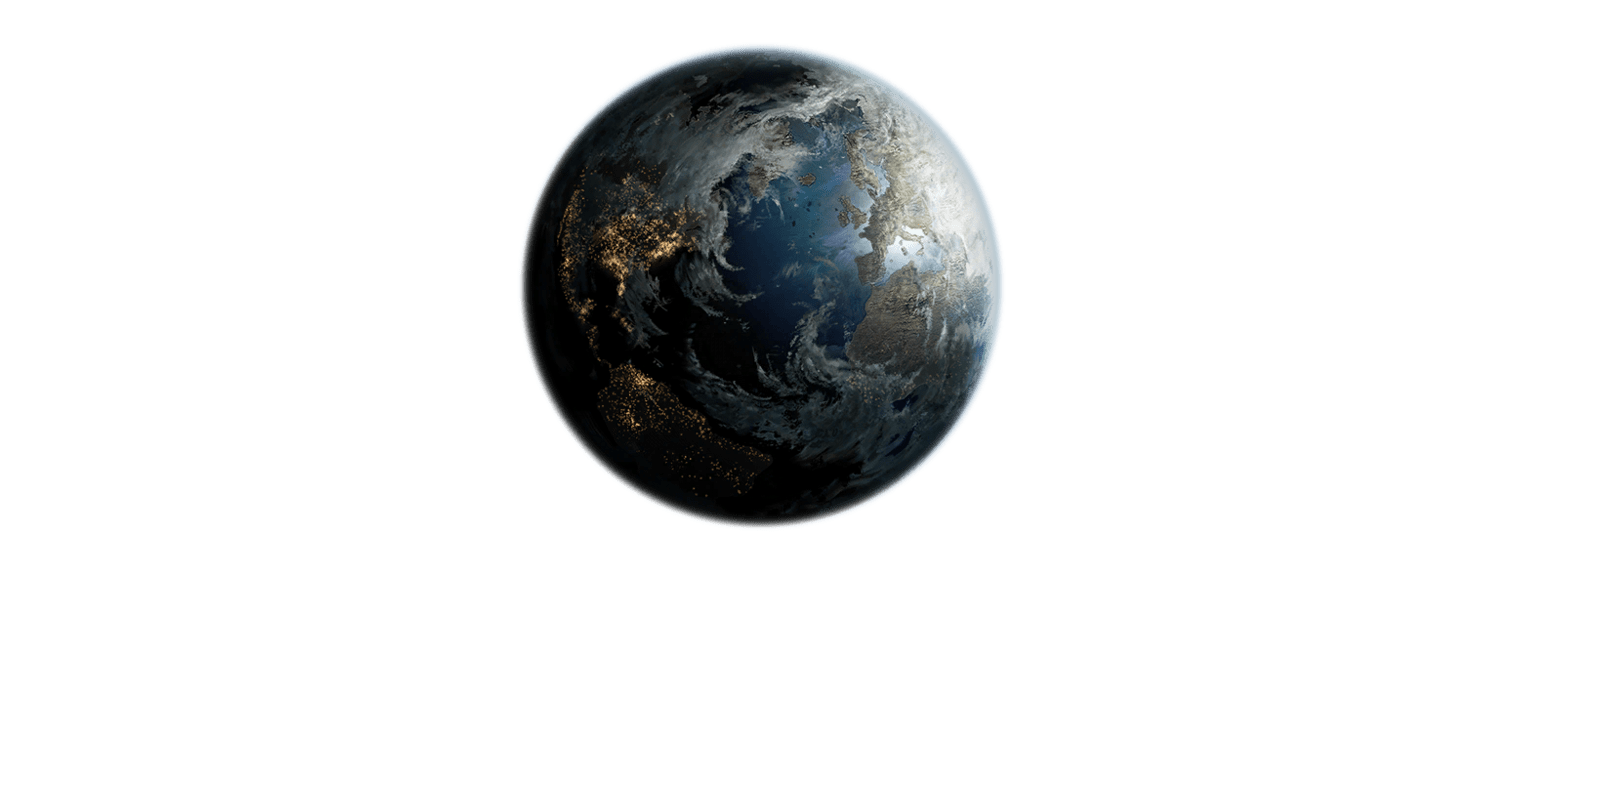
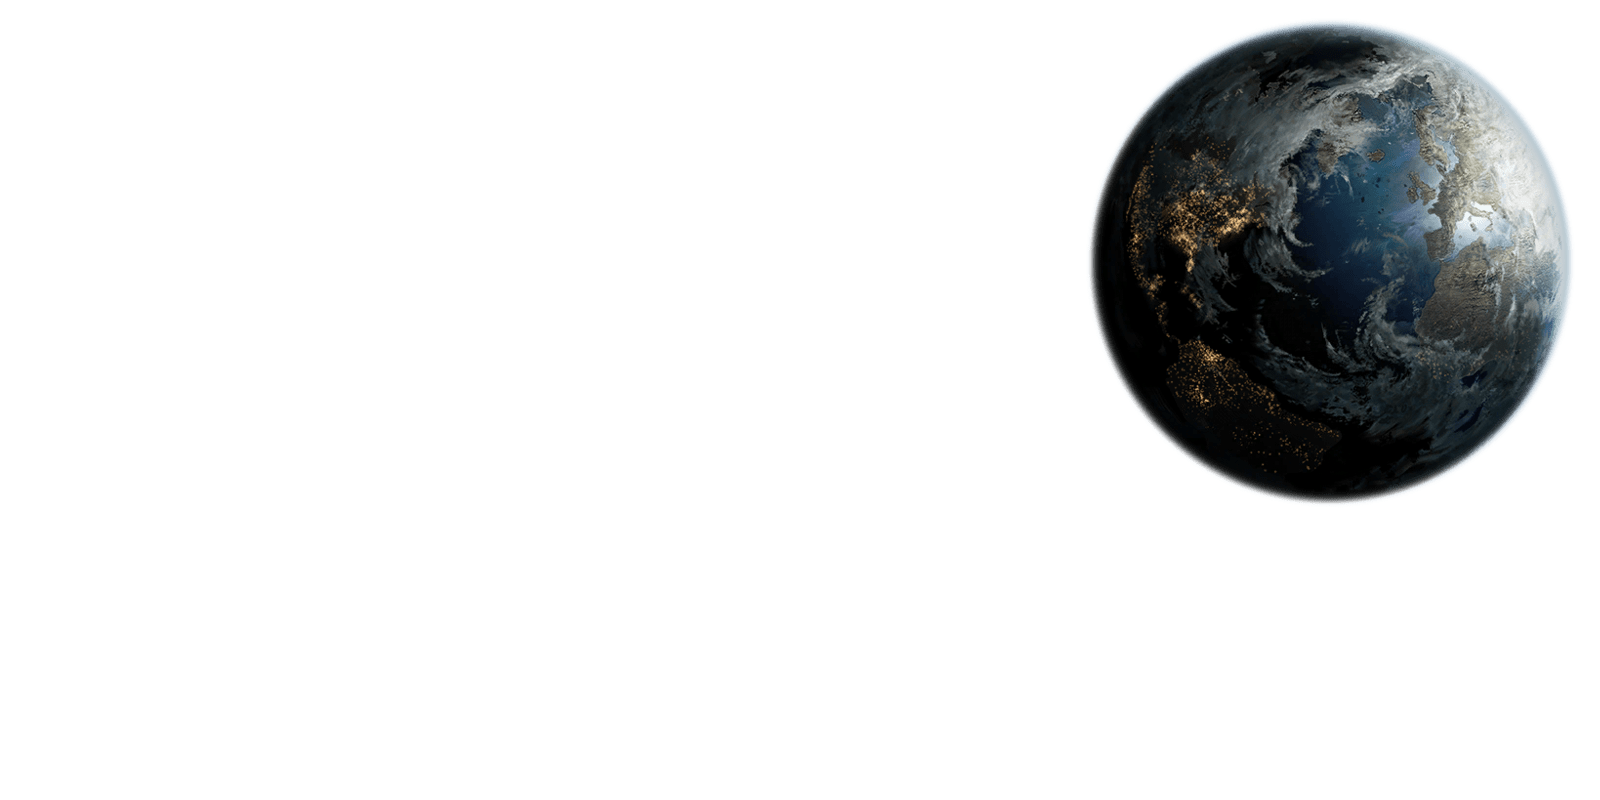
Full screen added

Changed region(s): [[0.6562, 0.0312, 1.0, 0.6562], [0.3125, 0.0312, 0.625, 0.6562]]

diff --git a/menu.py b/menu.py
@@ -3,6 +3,7 @@ import pygame
 import random
 import sys
 from game_assets import load_assets
+from settings import WIDTH, HEIGHT, FULLSCREEN  # Import screen dimensions from settings
 
 # Initialize Pygame modules
 pygame.init()
@@ -11,8 +12,11 @@ font = pygame.font.Font(None, 36)  # Default font
 author_font = pygame.font.Font(None, 24)  # Smaller font for author text
 
 # Screen dimensions
-WIDTH, HEIGHT = 600, 800
-screen = pygame.display.set_mode((WIDTH, HEIGHT))
+# Set screen mode based on FULLSCREEN flag
+if FULLSCREEN:
+    screen = pygame.display.set_mode((WIDTH, HEIGHT), pygame.FULLSCREEN)  # Full-screen mode
+else:
+    screen = pygame.display.set_mode((WIDTH, HEIGHT))  # Windowed mode
 
 # Colors
 WHITE = (255, 255, 255)
@@ -25,6 +29,23 @@ BACKGROUND_COLOR = (0, 0, 0)
 # Load assets
 assets = load_assets()
 menu_background = assets['menu_background']
+
+# Get background image size and aspect ratio
+bg_width, bg_height = menu_background.get_size()
+bg_aspect_ratio = bg_width / bg_height
+
+# Resize background to fit the screen while maintaining aspect ratio
+if WIDTH / HEIGHT > bg_aspect_ratio:
+    # Screen is wider than the background aspect ratio, so fit by height
+    new_bg_height = HEIGHT
+    new_bg_width = int(HEIGHT * bg_aspect_ratio)
+else:
+    # Screen is taller than the background aspect ratio, so fit by width
+    new_bg_width = WIDTH
+    new_bg_height = int(WIDTH / bg_aspect_ratio)
+
+# Scale the background image while keeping the aspect ratio
+menu_background_scaled = pygame.transform.scale(menu_background, (new_bg_width, new_bg_height))
 
 # Fonts
 button_font = pygame.font.Font(None, 48)  # Use default font
@@ -105,7 +126,7 @@ def main_menu():
     )
     coop_button = Button(
         "COOPERATIVE",
-        WIDTH // 2 - 140,  # Adjusted x position for wider button
+        WIDTH // 2 - 140,  
         HEIGHT // 2 - 60,
         280,               # Increased width for better fit
         60,
@@ -141,12 +162,15 @@ def main_menu():
         mouse_click = pygame.mouse.get_pressed()
 
         # Calculate offset for parallax effect
-        offset_x = -(mouse_pos[0] - WIDTH // -1) * parallax_factor
-        offset_y = -(mouse_pos[1] - HEIGHT // 2) * parallax_factor
+        offset_x = -(mouse_pos[0] - WIDTH // 1) * parallax_factor
+        offset_y = -(mouse_pos[1] - HEIGHT // 3) * parallax_factor
 
         # Ensure the background fills the screen even when offset
         screen.fill(BACKGROUND_COLOR)  # Fill with black before blitting background
-        screen.blit(menu_background, (offset_x, offset_y))
+       # Center the background image based on its scaled size
+        bg_x = (WIDTH - new_bg_width) // 2
+        bg_y = (HEIGHT - new_bg_height) // 2
+        screen.blit(menu_background_scaled, (bg_x + offset_x, bg_y + offset_y))
 
         # Update and draw stars
         for star in menu_stars:

diff --git a/main.py b/main.py
@@ -2,18 +2,28 @@
 import pygame
 import sys
 from menu import main_menu
+from settings import WIDTH, HEIGHT, FULLSCREEN  # Import screen dimensions from settings
 
 # Initialize Pygame and the mixer module
 pygame.init()
 pygame.mixer.init()
 pygame.font.init()  # Ensure font module is initialized
+pygame.display.set_caption("Space Void v0.5")
+icon = pygame.image.load('assets/images/icon.png')
+
+# Screen dimensions
+# screen = pygame.display.set_mode((WIDTH, HEIGHT)) 
+# Set screen mode based on FULLSCREEN flag
+if FULLSCREEN:
+    screen = pygame.display.set_mode((WIDTH, HEIGHT), pygame.FULLSCREEN)  # Full-screen mode
+else:
+    screen = pygame.display.set_mode((WIDTH, HEIGHT))  # Windowed mode
 
 def main():
     pygame.mixer.music.load('assets/sounds/background_music.mp3')
     pygame.mixer.music.play(-1)  # Loop the music indefinitely
     
-    pygame.display.set_caption("Space Void v0.5")
-    icon = pygame.image.load('assets/images/icon.png')
+
 
 # Set the window icon
     pygame.display.set_icon(icon)

diff --git a/versus.py b/versus.py
@@ -4,14 +4,18 @@ import random
 import sys
 from game_classes import Player, Explosion, Star
 from game_assets import load_assets
+from settings import WIDTH, HEIGHT, FULLSCREEN  # Import screen dimensions from settings
 
 # Initialize Pygame modules
 pygame.init()
 pygame.font.init()  # Ensure font module is initialized
 
 # Screen dimensions
-WIDTH, HEIGHT = 600, 800
-screen = pygame.display.set_mode((WIDTH, HEIGHT))
+# Set screen mode based on FULLSCREEN flag
+if FULLSCREEN:
+    screen = pygame.display.set_mode((WIDTH, HEIGHT), pygame.FULLSCREEN)  # Full-screen mode
+else:
+    screen = pygame.display.set_mode((WIDTH, HEIGHT))  # Windowed mode
 
 # Colors
 WHITE = (255, 255, 255)

diff --git a/game.py b/game.py
@@ -14,15 +14,8 @@ from game_classes import (
 )
 from game_assets import load_assets
 from menu import main_menu
-
-# Initialize Pygame modules
-pygame.init()
-pygame.font.init()  # Ensure font module is initialized
-
-# Screen dimensions
-WIDTH, HEIGHT = 600, 800
-screen = pygame.display.set_mode((WIDTH, HEIGHT))
-
+from settings import WIDTH, HEIGHT  # Import screen dimensions from settings
+from main import screen
 
 # Colors
 WHITE = (255, 255, 255)

diff --git a/game_classes.py b/game_classes.py
@@ -2,8 +2,7 @@
 import pygame
 import random
 import math
-
-WIDTH, HEIGHT = 600, 800
+from settings import WIDTH, HEIGHT  # Import screen dimensions from settings
 
 # Global variable for game speed multiplier
 game_speed_multiplier = 1.0

diff --git a/settings.py b/settings.py
@@ -1,0 +1,7 @@
+# settings.py
+
+# Screen dimensions
+WIDTH = 1920
+HEIGHT = 1080
+
+FULLSCREEN = False
